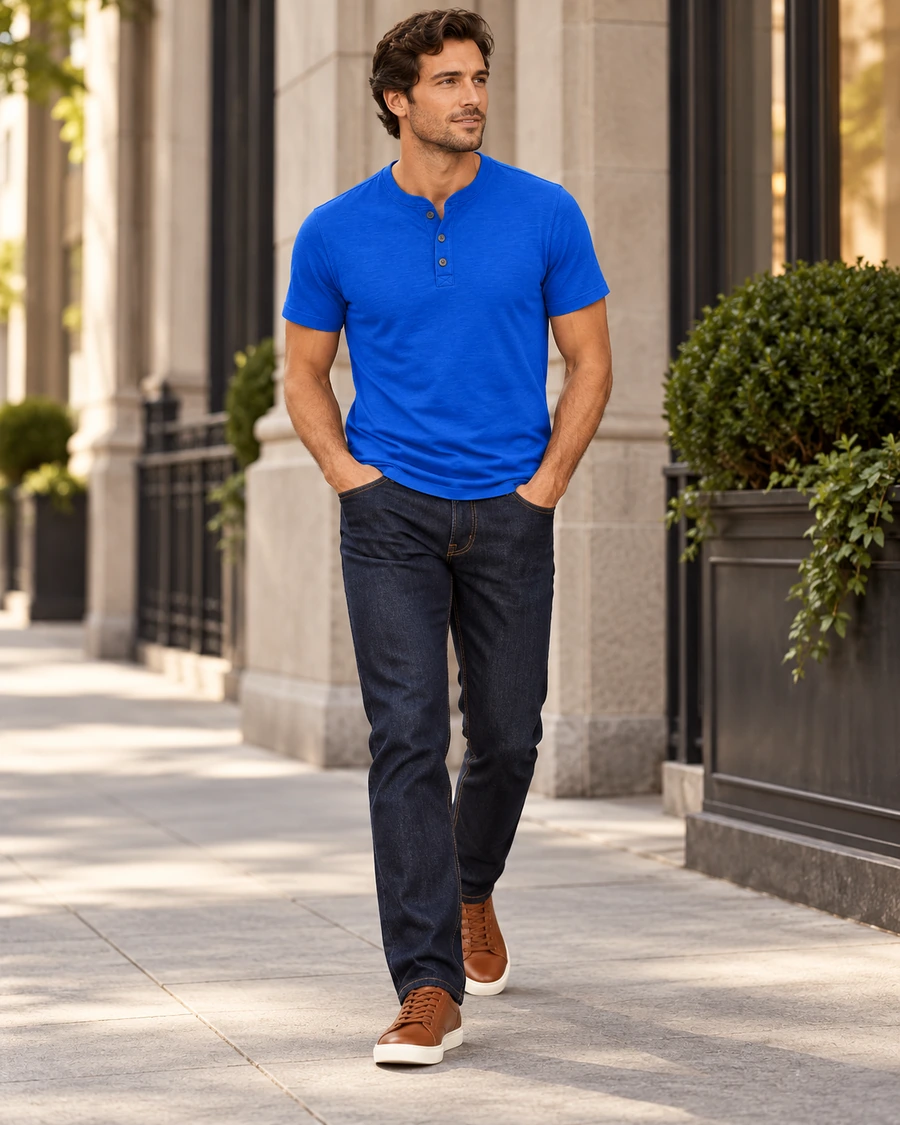
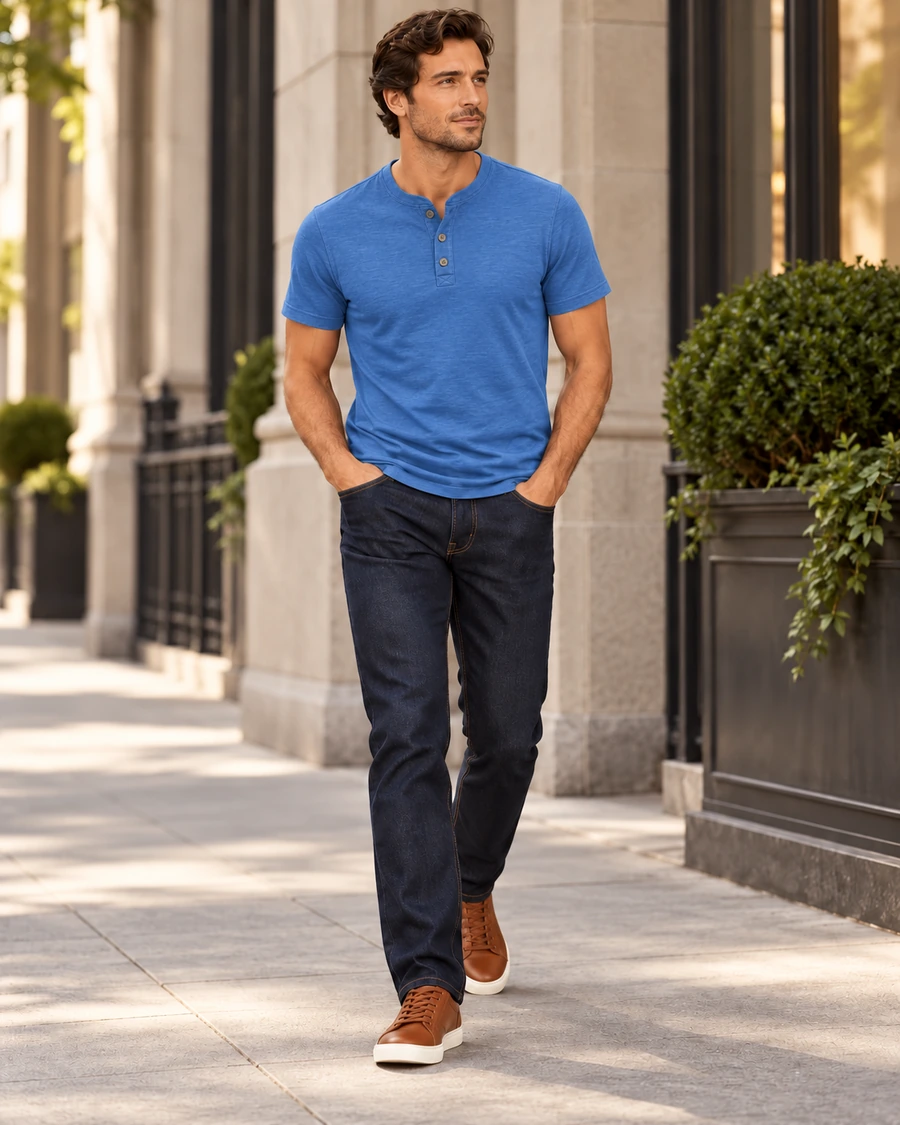
Refine new outfit color and footwear pairings

diff --git a/data-canonical.js b/data-canonical.js
@@ -105,7 +105,7 @@
 
   // New combinations built only from confirmed owned wardrobe pieces.
   upsertFamily({id:'family-france-blue-denim',name:'France blue henley + dark denim',hero:'look-78',looks:['look-78']});
-  upsertLook({id:'look-78',family:'family-france-blue-denim',name:'France blue henley + dark denim + cognac sneakers',image:'assets/look-78-hq.webp?v=1',formal:1,badges:['Weekend','Travel'],pieces:['owned-france-blue-henley','dark-denim','owned-br-cognac-sneakers']});
+  upsertLook({id:'look-78',family:'family-france-blue-denim',name:'France blue henley + dark denim + cognac sneakers',image:'assets/look-78-hq.webp?v=2',formal:1,badges:['Weekend','Travel'],pieces:['owned-france-blue-henley','dark-denim','owned-br-cognac-sneakers']});
 
   upsertFamily({id:'family-black-vneck-navy',name:'Black V-neck + navy chinos',hero:'look-79',looks:['look-79']});
   upsertLook({id:'look-79',family:'family-black-vneck-navy',name:'Black V-neck + cream shirt + navy chinos + brown cap-toe shoes',image:'assets/look-79-hq.webp?v=1',formal:3,badges:['Office','Dinner'],pieces:['owned-black-vneck','owned-cream-buttondown','navy-trousers','owned-brown-leather-captoe']});
@@ -114,7 +114,7 @@
   upsertLook({id:'look-80',family:'family-blue-gingham-green',name:'Blue gingham shirt + dark green chinos + white sneakers',image:'assets/look-80-hq.webp?v=1',formal:2,badges:['Office','Weekend','Travel'],pieces:['owned-blue-gingham-shirt','owned-dark-green-chinos','white-leather-sneakers']});
 
   upsertFamily({id:'family-grey-quarterzip-beige',name:'Grey quarter-zip + beige chinos',hero:'look-81',looks:['look-81']});
-  upsertLook({id:'look-81',family:'family-grey-quarterzip-beige',name:'Grey quarter-zip + beige chinos + navy suede Chelsea boots',image:'assets/look-81-hq.webp?v=1',formal:2,badges:['Office','Weekend','Travel'],pieces:['owned-grey-quarterzip','beige-chinos','owned-navy-suede-chelsea']});
+  upsertLook({id:'look-81',family:'family-grey-quarterzip-beige',name:'Grey quarter-zip + beige chinos + dark brown suede Chelsea boots',image:'assets/look-81-hq.webp?v=2',formal:2,badges:['Office','Weekend','Travel'],pieces:['owned-grey-quarterzip','beige-chinos','owned-darkbrown-suede-chelsea']});
 
   // High-quality face/look replacements (2026-09-17 housekeeping).
   // Replace legacy low-resolution assets with face-consistent full-resolution renders.

diff --git a/detail.html b/detail.html
@@ -28,7 +28,7 @@
   <script src="data-batch13.js?v=4"></script>
   <script src="data-batch14.js?v=4"></script>
   <script src="data-batch15.js?v=2"></script>
-  <script src="data-canonical.js?v=9"></script>
+  <script src="data-canonical.js?v=10"></script>
   <script src="data-owned-intake-20261006.js?v=2"></script>
   <script src="look-aliases.js?v=1"></script>
   <script src="wardrobe-normalize.js?v=1"></script>
@@ -47,7 +47,7 @@
   <script src="catalog-batch3.js?v=2"></script>
   <script src="catalog-v4.js?v=3"></script>
   <script>window.PIECE_IMAGES=window.FITS_CATALOG_IMAGES||{};</script>
-  <script src="piece-image-overrides.js?v=22"></script>
+  <script src="piece-image-overrides.js?v=23"></script>
   <script src="detail-v3.js?v=26"></script>
   <script src="detail-piece-fix.js?v=2"></script>
   <script src="detail-season.js?v=16"></script>

diff --git a/unlock.html b/unlock.html
@@ -28,7 +28,7 @@
   <script src="data-batch13.js?v=4"></script>
   <script src="data-batch14.js?v=4"></script>
   <script src="data-batch15.js?v=2"></script>
-  <script src="data-canonical.js?v=9"></script>
+  <script src="data-canonical.js?v=10"></script>
   <script src="data-owned-intake-20261006.js?v=2"></script>
   <script src="look-aliases.js?v=1"></script>
   <script src="wardrobe-normalize.js?v=1"></script>
@@ -44,7 +44,7 @@
   <script src="catalog-batch3.js?v=2"></script>
   <script src="catalog-v4.js?v=3"></script>
   <script src="app.js?v=23"></script>
-  <script src="piece-image-overrides.js?v=22"></script>
+  <script src="piece-image-overrides.js?v=23"></script>
   <script src="smart-unlock.js?v=22"></script>
   <script src="inspiration-inbox.js?v=25"></script>
   <script src="piece-focus.js?v=2"></script>

diff --git a/wardrobe.html b/wardrobe.html
@@ -29,7 +29,7 @@
   <script src="data-batch13.js?v=4"></script>
   <script src="data-batch14.js?v=4"></script>
   <script src="data-batch15.js?v=2"></script>
-  <script src="data-canonical.js?v=9"></script>
+  <script src="data-canonical.js?v=10"></script>
   <script src="data-owned-intake-20261006.js?v=1"></script>
   <script src="look-aliases.js?v=1"></script>
   <script src="wardrobe-normalize.js?v=1"></script>
@@ -44,7 +44,7 @@
   <script src="catalog-batch3.js?v=2"></script>
   <script src="catalog-v4.js?v=3"></script>
   <script src="app.js?v=23"></script>
-  <script src="piece-image-overrides.js?v=22"></script>
+  <script src="piece-image-overrides.js?v=23"></script>
   <script src="piece-focus.js?v=2"></script>
   <script src="piece-focus-v2.js?v=2"></script>
   <script src="catalog-cleanup.js?v=1"></script>

diff --git a/piece-image-overrides.js b/piece-image-overrides.js
@@ -6,7 +6,7 @@ Object.assign(PIECE_IMAGES,window.FITS_CATALOG_IMAGES||{}, {
   'owned-green-crewneck':'assets/owned-green-crewneck.webp?v=1',
   'black-polo':'assets/owned-black-polo.webp?v=1',
   'navy-polo':'assets/owned-navy-polo.webp?v=1',
-  'owned-france-blue-henley':'assets/owned-france-blue-henley.webp?v=1',
+  'owned-france-blue-henley':'assets/owned-france-blue-henley.webp?v=2',
   'navy-henley':'assets/owned-navy-henley.webp?v=1',
   'owned-white-henley':'assets/owned-white-henley.webp?v=1',
   'owned-cream-buttondown':'assets/owned-cream-buttondown.webp?v=1',

diff --git a/index.html b/index.html
@@ -28,7 +28,7 @@
   <script src="data-batch13.js?v=4"></script>
   <script src="data-batch14.js?v=4"></script>
   <script src="data-batch15.js?v=2"></script>
-  <script src="data-canonical.js?v=9"></script>
+  <script src="data-canonical.js?v=10"></script>
   <script src="data-owned-intake-20261006.js?v=2"></script>
   <script src="look-aliases.js?v=1"></script>
   <script src="wardrobe-normalize.js?v=1"></script>

diff --git a/stats.html b/stats.html
@@ -26,7 +26,7 @@
   <script src="data-batch13.js?v=4"></script>
   <script src="data-batch14.js?v=4"></script>
   <script src="data-batch15.js?v=2"></script>
-  <script src="data-canonical.js?v=9"></script>
+  <script src="data-canonical.js?v=10"></script>
   <script src="data-owned-intake-20261006.js?v=2"></script>
   <script src="look-aliases.js?v=1"></script>
   <script src="wardrobe-normalize.js?v=1"></script>
